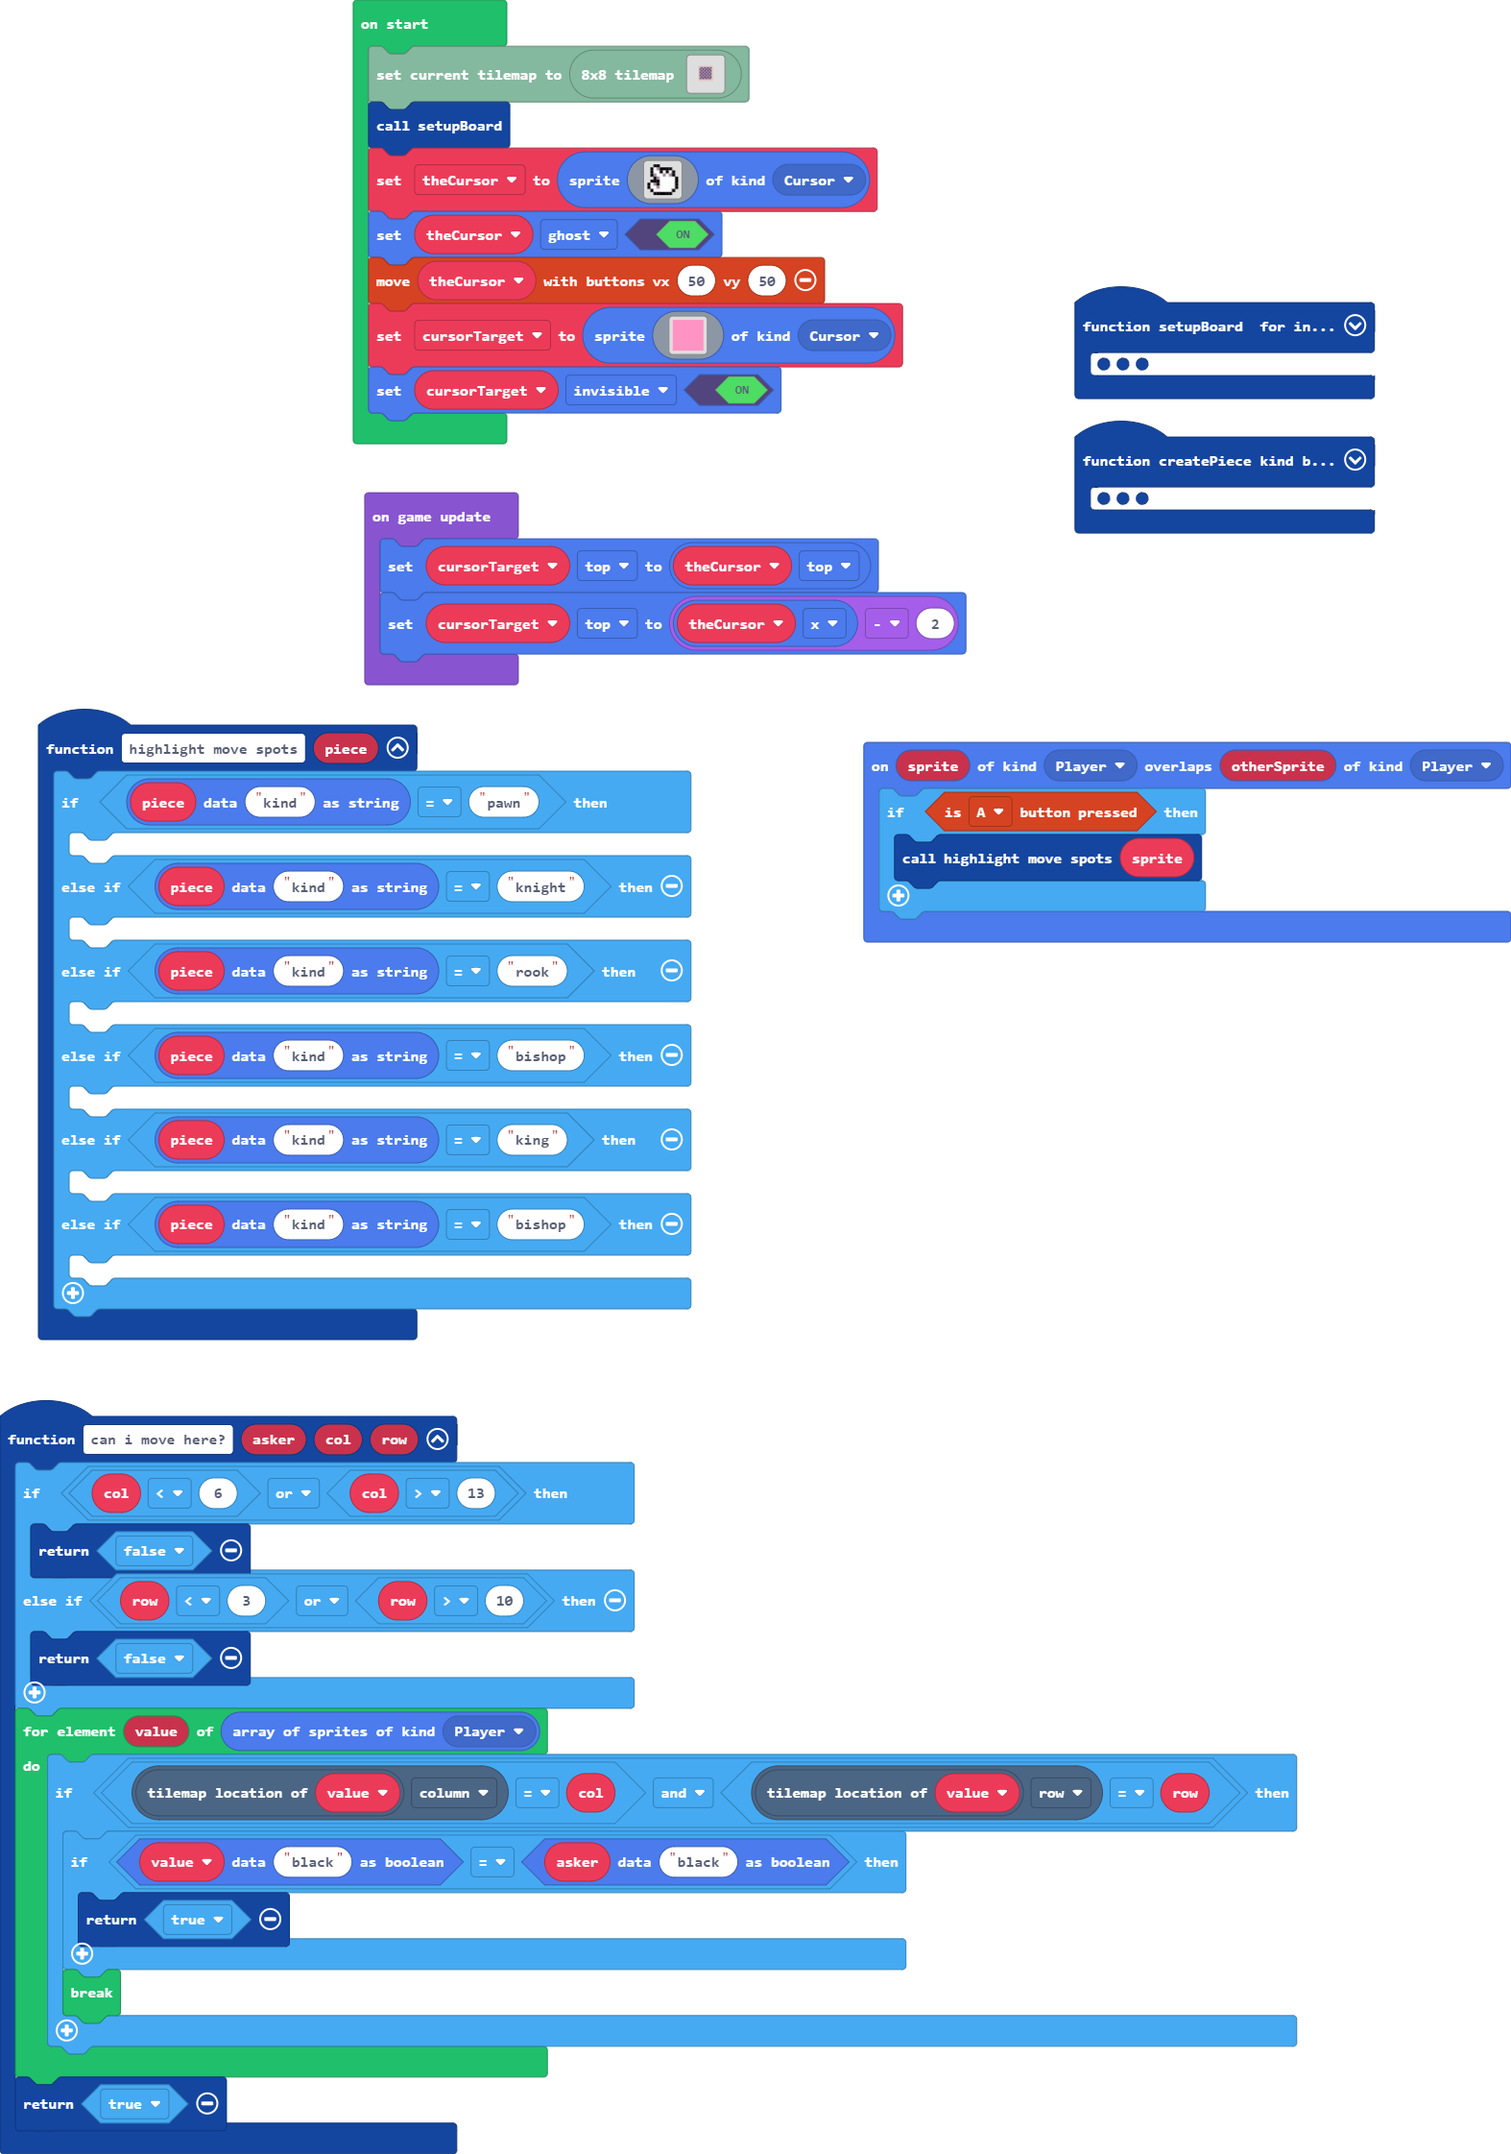
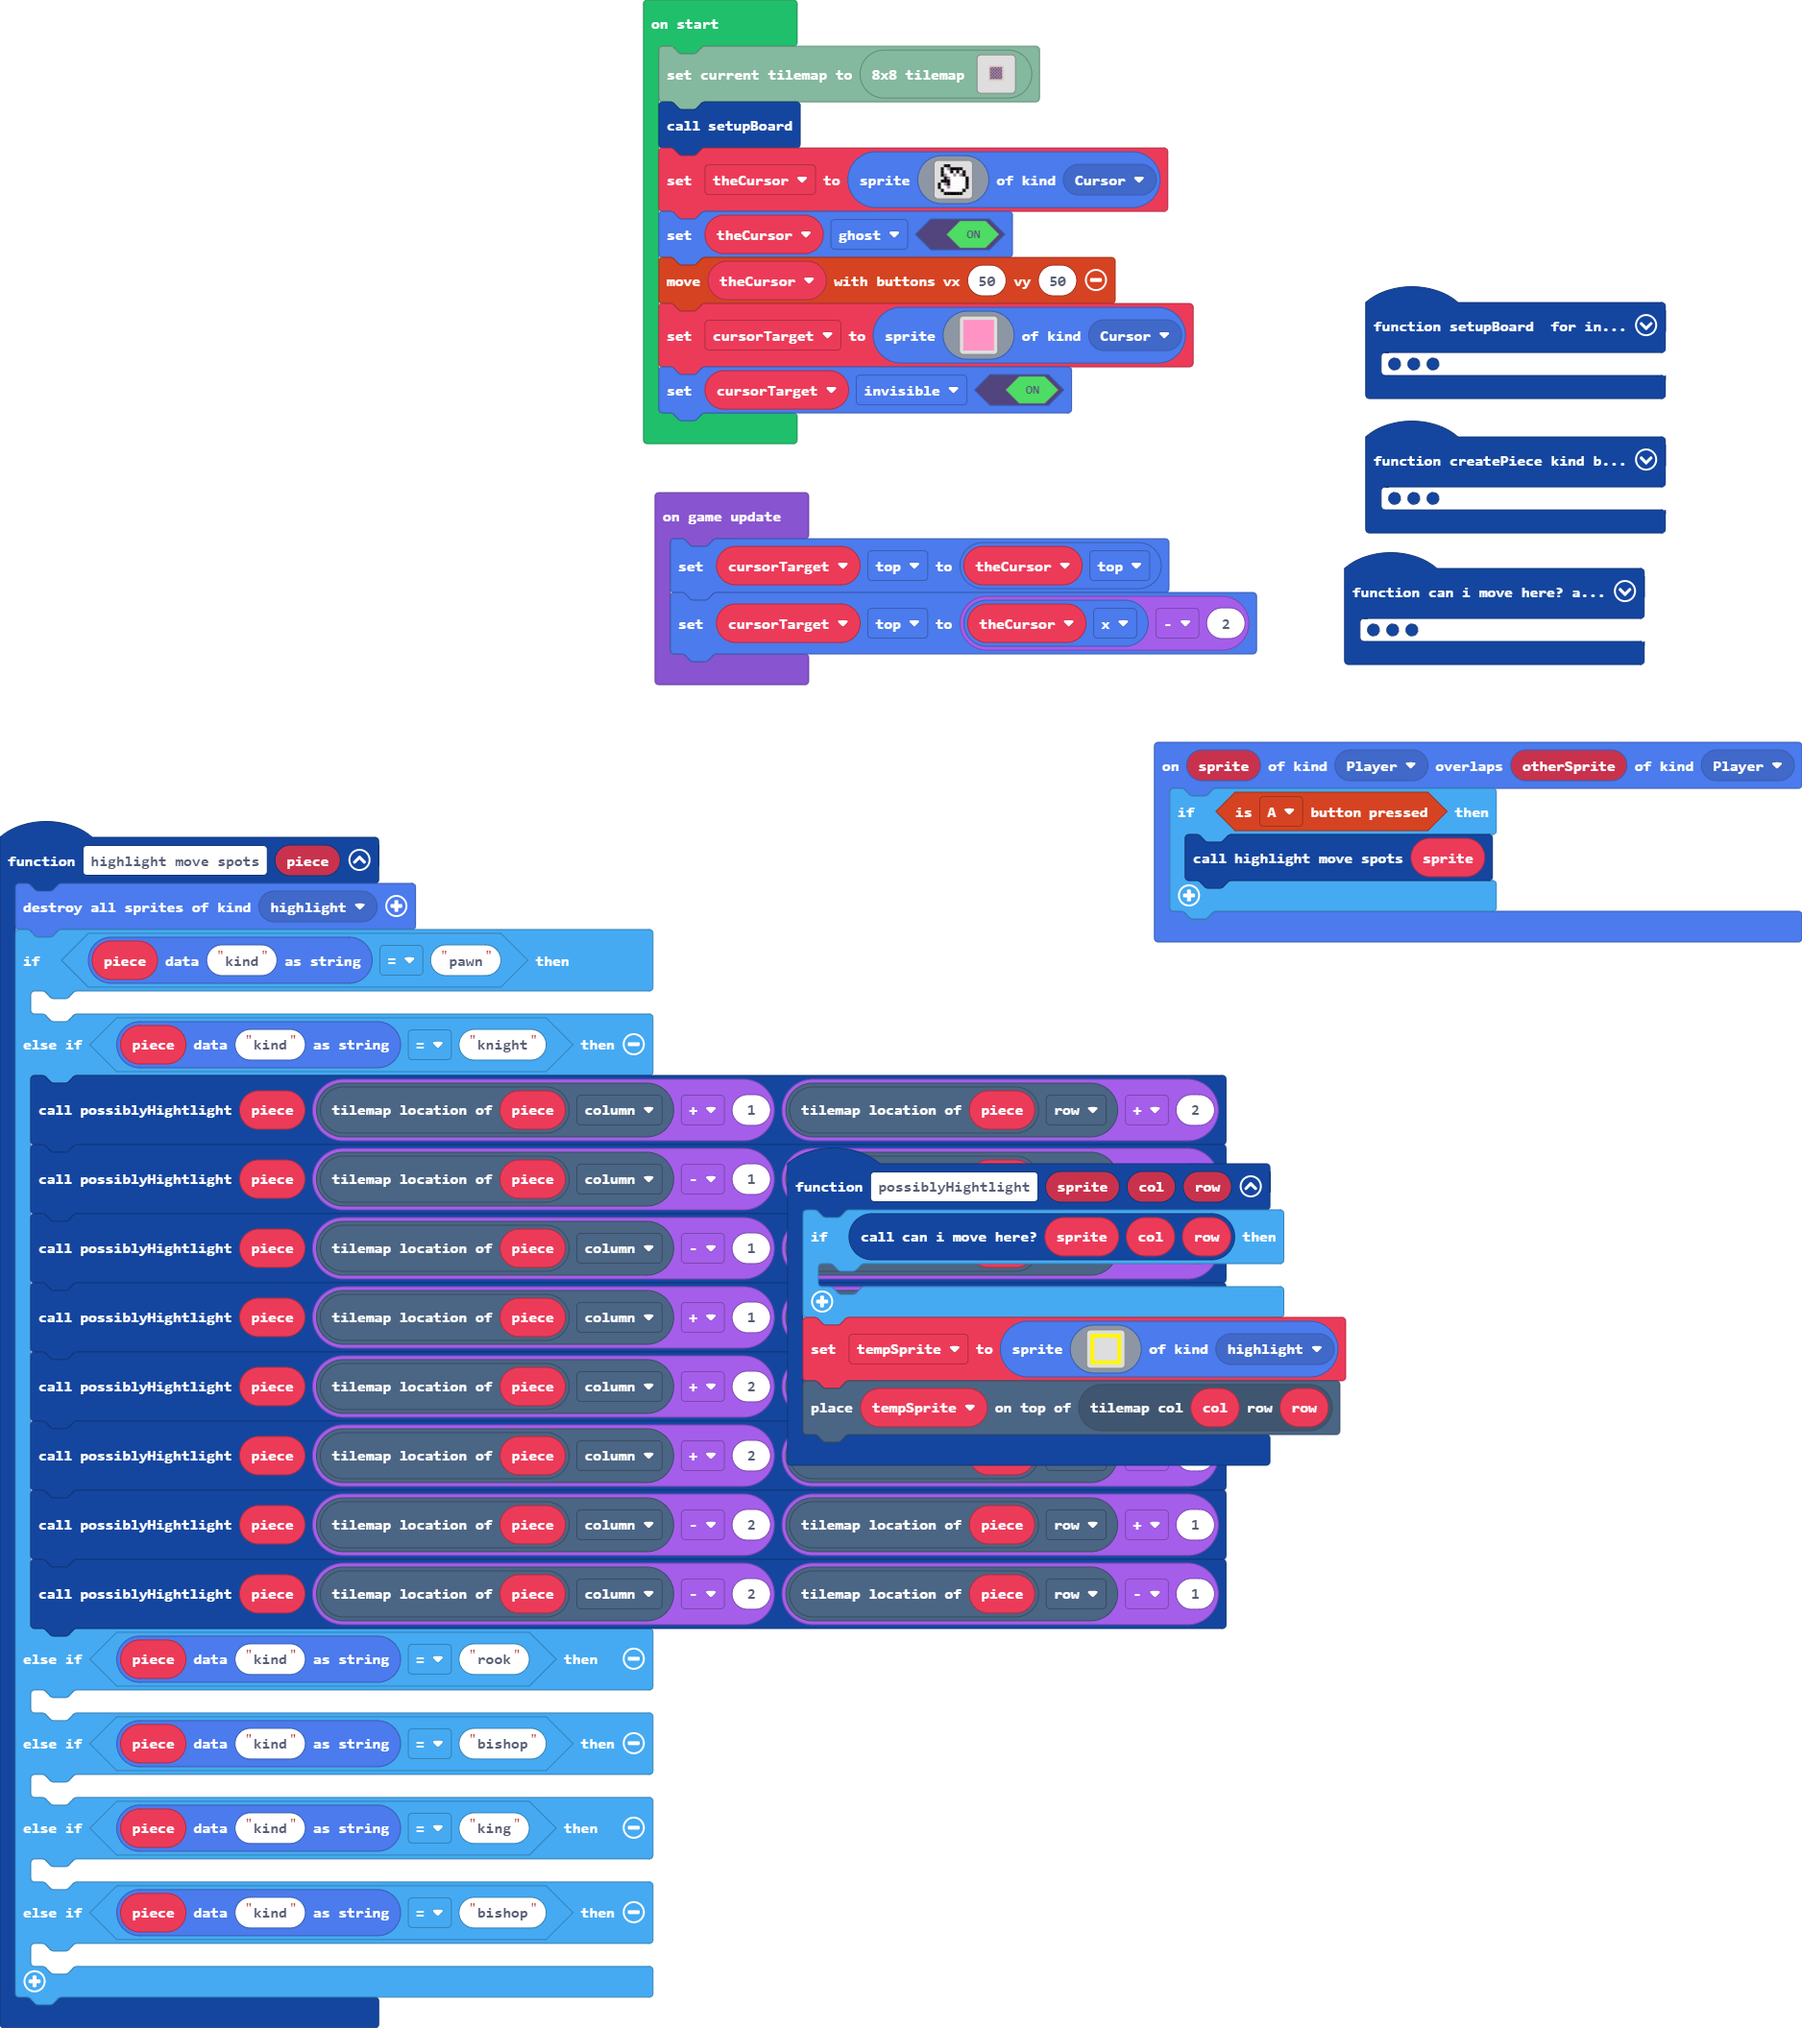
Update main.blocks, main.ts

diff --git a/main.ts b/main.ts
@@ -1,5 +1,6 @@
 namespace SpriteKind {
     export const Cursor = SpriteKind.create()
+    export const highlight = SpriteKind.create()
 }
 function createPiece (kind: string, black: boolean, image2: Image) {
     tempSprite = sprites.create(image2, SpriteKind.Player)
@@ -202,7 +203,7 @@ function can_i_move_here (asker: Sprite, col: number, row: number) {
     for (let value of sprites.allOfKind(SpriteKind.Player)) {
         if (value.tilemapLocation().column == col && value.tilemapLocation().row == row) {
             if (sprites.readDataBoolean(value, "black") == sprites.readDataBoolean(asker, "black")) {
-                return true
+                return false
             }
             break;
         }
@@ -215,10 +216,18 @@ sprites.onOverlap(SpriteKind.Player, SpriteKind.Player, function (sprite, otherS
     }
 })
 function highlight_move_spots (piece: Sprite) {
+    sprites.destroyAllSpritesOfKind(SpriteKind.highlight)
     if (sprites.readDataString(piece, "kind") == "pawn") {
     	
     } else if (sprites.readDataString(piece, "kind") == "knight") {
-    	
+        possiblyHightlight(piece, piece.tilemapLocation().column + 1, piece.tilemapLocation().row + 2)
+        possiblyHightlight(piece, piece.tilemapLocation().column - 1, piece.tilemapLocation().row + 2)
+        possiblyHightlight(piece, piece.tilemapLocation().column - 1, piece.tilemapLocation().row - 2)
+        possiblyHightlight(piece, piece.tilemapLocation().column + 1, piece.tilemapLocation().row - 2)
+        possiblyHightlight(piece, piece.tilemapLocation().column + 2, piece.tilemapLocation().row - 1)
+        possiblyHightlight(piece, piece.tilemapLocation().column + 2, piece.tilemapLocation().row + 1)
+        possiblyHightlight(piece, piece.tilemapLocation().column - 2, piece.tilemapLocation().row + 1)
+        possiblyHightlight(piece, piece.tilemapLocation().column - 2, piece.tilemapLocation().row - 1)
     } else if (sprites.readDataString(piece, "kind") == "rook") {
     	
     } else if (sprites.readDataString(piece, "kind") == "bishop") {
@@ -228,6 +237,22 @@ function highlight_move_spots (piece: Sprite) {
     } else if (sprites.readDataString(piece, "kind") == "bishop") {
     	
     }
+}
+function possiblyHightlight (sprite: Sprite, col: number, row: number) {
+    if (can_i_move_here(sprite, col, row)) {
+    	
+    }
+    tempSprite = sprites.create(img`
+        5 5 5 5 5 5 5 5 
+        5 . . . . . . 5 
+        5 . . . . . . 5 
+        5 . . . . . . 5 
+        5 . . . . . . 5 
+        5 . . . . . . 5 
+        5 . . . . . . 5 
+        5 5 5 5 5 5 5 5 
+        `, SpriteKind.highlight)
+    tiles.placeOnTile(tempSprite, tiles.getTileLocation(col, row))
 }
 let tempSprite: Sprite = null
 tiles.loadMap(tiles.createSmallMap(tilemap`level2`))
